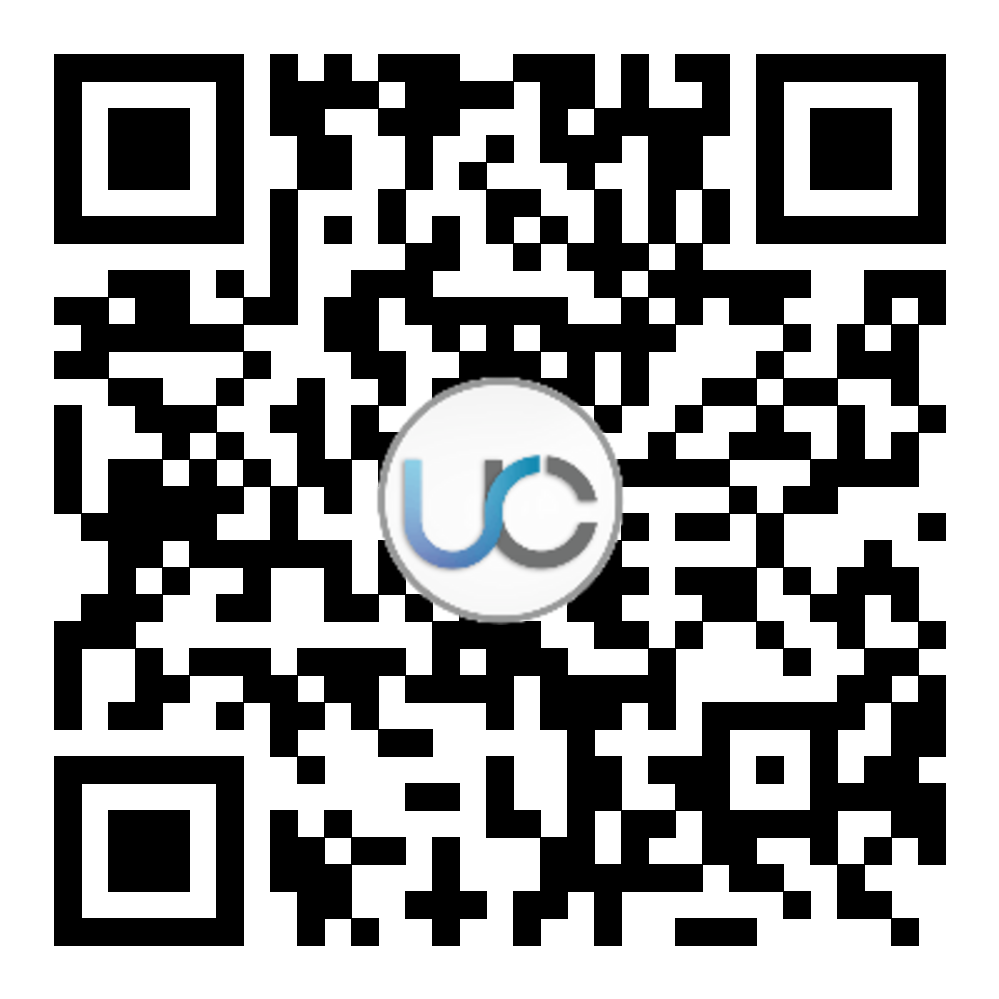
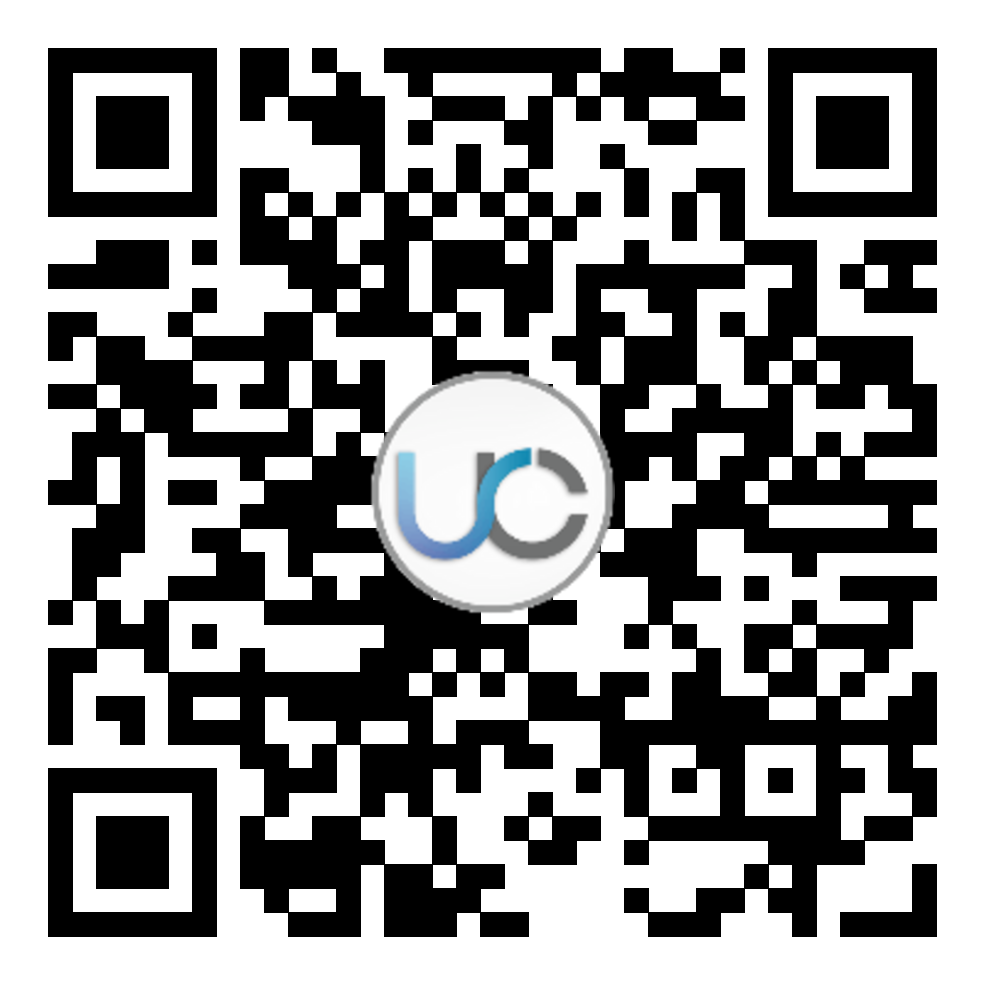
feat: replacement of qrCodes, correction of writing errors and deploy settings

diff --git a/src/pages/NavBar/Client/AllClients.jsx b/src/pages/NavBar/Client/AllClients.jsx
@@ -26,11 +26,11 @@ function AllClients() {
         {mockClients.map((client, index) => (
           <tr key={index} className={ index % 2 === 0 ? 'bg-gray-100' : 'bg-white'}>
             <td className="border px-4 py-2">{ client.name }</td>
-            <td className="border text-center first-line:px-4 py-2">{client.cpf}</td>
+            <td className="border text-center px-4 py-2">{client.cpf}</td>
             <td className="border text-center px-4 py-2">{client.email}</td>
             <td className="border text-center px-4 py-2">{client.cel}</td>
-            <td className="border text-center file:px-4 py-2">{client.neighbor}</td>
-            <td className="border text-center px-4 py-2">{client.startDate}</td>
+            <td className="border text-center px-4 py-2">{client.address}</td>
+            <td className="border text-center px-4 py-2">{client.neighbor}</td>
             <td className="border text-center px-4 py-2">{client.car}</td>
             <td className="border text-center px-4 py-2">{client.plate}</td>
           </tr>

diff --git a/src/pages/NavBar/Product/Products.jsx b/src/pages/NavBar/Product/Products.jsx
@@ -76,7 +76,7 @@ function Products() {
 
       <div className='mt-24'>
         <h1 className="text-gray-600 text-center text-base sm:text-lg xl:text-xl font-light mb-5">
-          Escaneie o <span className="font-medium text-black">QRCode</span> abaixo para fazer a busca do protudo pelo celular
+          Escaneie o <span className="font-medium text-black">QRCode</span> abaixo para fazer a busca do produto pelo celular
         </h1>
       </div>
 
